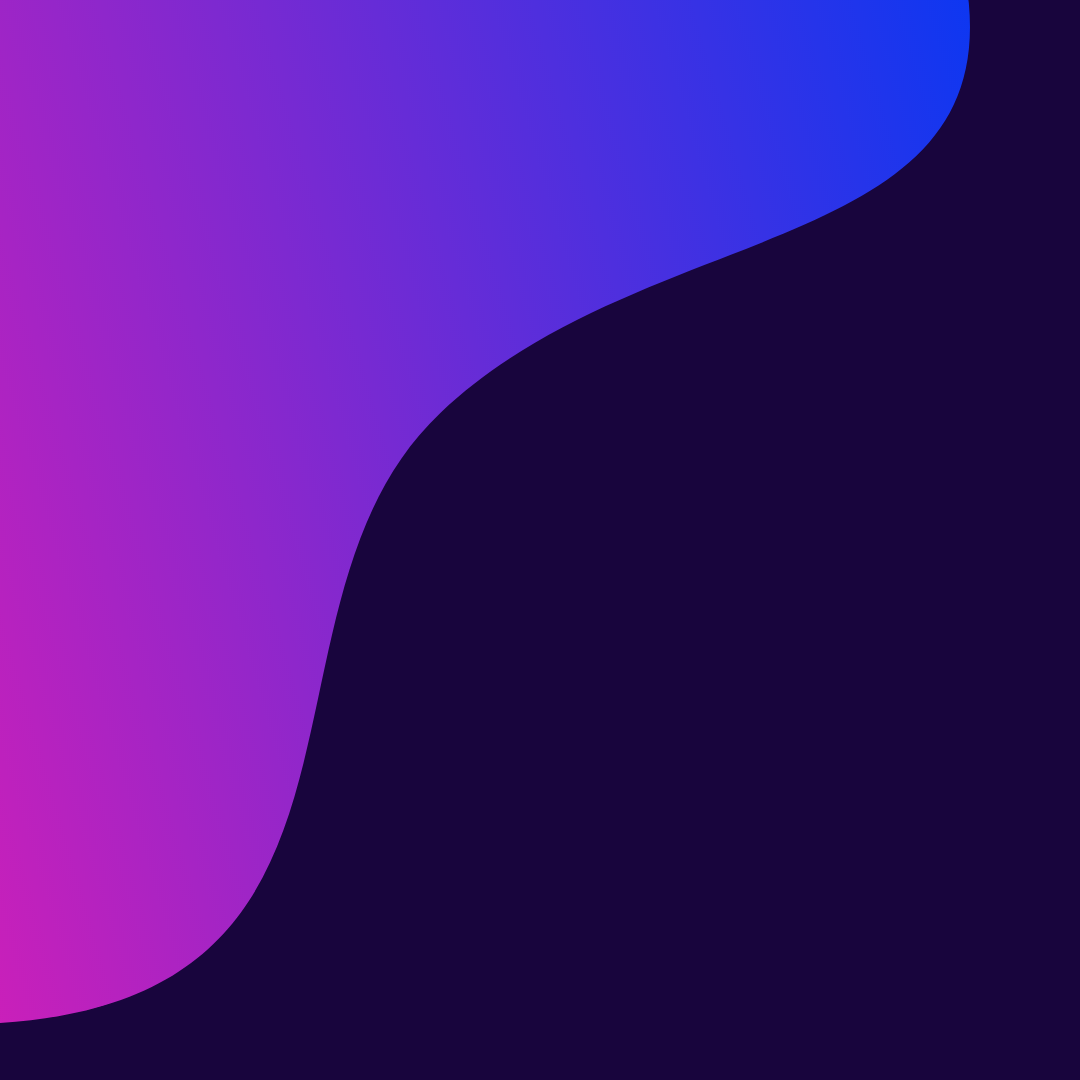
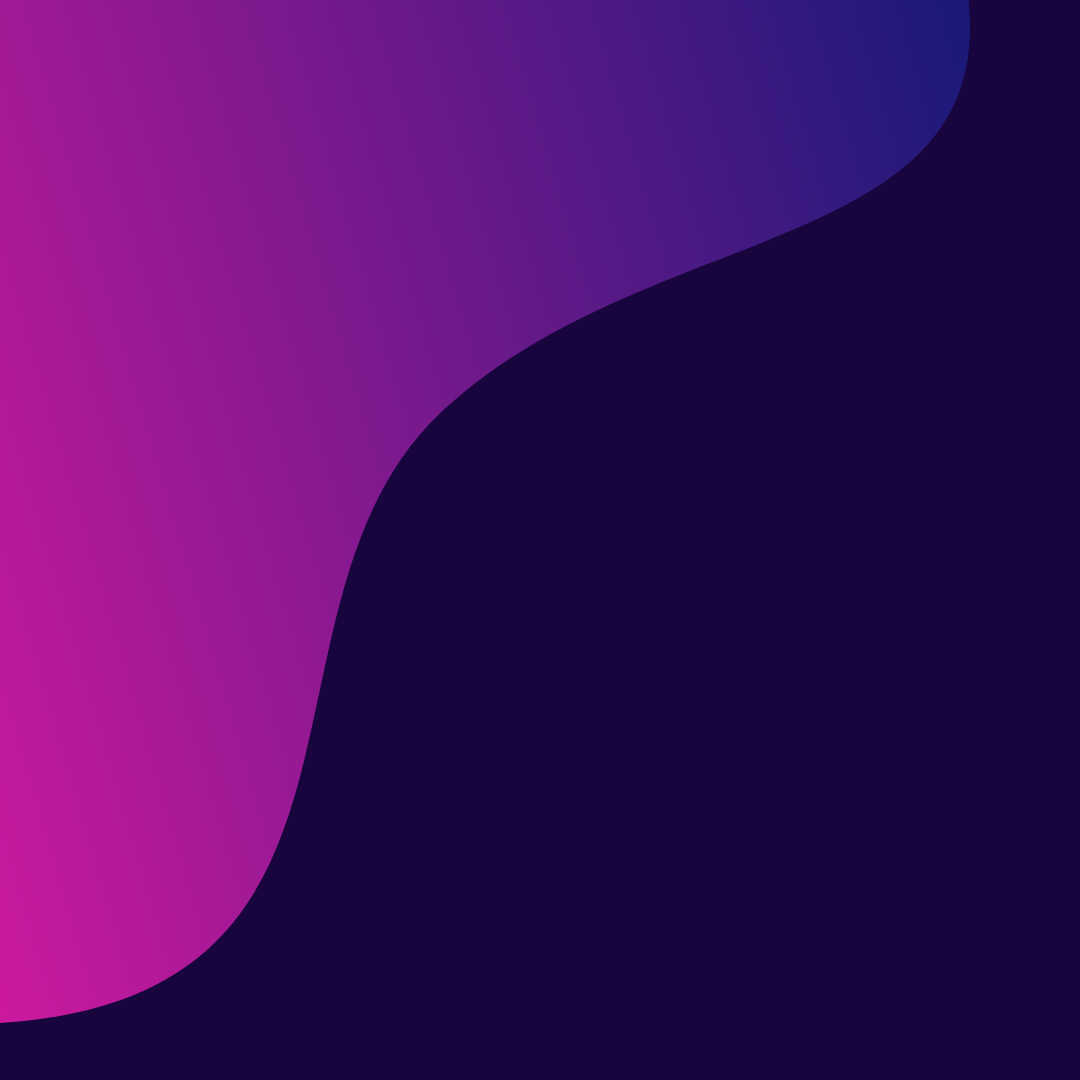
changed colour scheme

diff --git a/styles.css b/styles.css
@@ -3,6 +3,7 @@ body{
 	padding:1vw;
 	font-size:1.15rem;
 	line-height:1.5;
+	background-color:rgb(5,5,10);
 }
 
 header{
@@ -73,7 +74,7 @@ a{
 	color: white;
 	display:none;
 	flex-direction:row;
-	background-color:rgb(120,70,220);
+	background-color:rgb(25,25,120);
 	border: 3px solid black;
 	border-radius:10px;
 	padding: 1vh 0;
@@ -96,8 +97,13 @@ a{
 
 }
 
+#sticky-head .active{
+	color:white;
+}
+
 section{
-	background-color:rgb(252,244,255);
+	background-color:rgb(10,10,53);
+	color:white;
 	padding-bottom: 25px;
 	padding-right:15px;
 	padding-left:15px;
@@ -122,7 +128,6 @@ section{
 	justify-content:flex-start;
 	min-height:16vh;
 	font-weight:bold;
-	color:rgb(120,70,220);
 	font-variant:small-caps;
 }
 
@@ -159,7 +164,7 @@ footer{
 	color: white;
 	display:none;
 	flex-direction:column;
-	background-color:rgb(120,70,220);
+	background-color:rgb(25,25,120);
 	border: 3px solid black;
 	border-radius:10px;
 	padding: 2vh;
@@ -175,6 +180,11 @@ footer{
 	padding:2vh;
 	align-items:center;
 	justify-content:center;
+}
+
+.row.to-top a{
+	color:white;
+	text-shadow:0 0 10px blue;
 }
 
 .left{
@@ -193,13 +203,12 @@ footer{
 	display:flex;
 	width:47vw;
 	justify-content:flex-end;
-	
 	align-items:center;
 }
 
 .right a{
 	margin-right:2vw;
-	color:rgb(10,10,100);
+	color:rgb(120,70,220);
 	
 }
 

diff --git a/library.html b/library.html
@@ -14,15 +14,15 @@
 		<header>
 			<h1>scibuffet</h1>
 			<nav>
-				<div class='nav-link'><a href='./index.html'>Home</a></div>
+				<div class='nav-link'><a name='header' href='./index.html'>Home</a></div>
 				<div class='nav-link active'><a href='#'>Library</a></div>
 				<div class='nav-link'><a href='./about.html'>About</a></div>
 			</nav>
 		</header>
 		
 		<div id='sticky-head'>
-			<a href='#header' style="color:white"><i class="fas fa-2x fa-home"></i></a>
-			<a href='./library.html'><i class="fas fa-2x fa-book-open"></i></a>
+			<a href='./index.html'><i class="fas fa-2x fa-home"></i></a>
+			<a href='#' class='active'><i class="fas fa-2x fa-book-open"></i></a>
 			<a href='./about.html'><i class="fas fa-2x fa-question-circle"></i></a>
 		</div>
 		
@@ -103,8 +103,8 @@
 					<a name="mail" href='mailto:the.scibuffet@gmail.com' ><i class="far fa-3x fa-envelope"></i></a>
 				</div>
 			</div>
-			<div class='row'>
-				<a href='#header' style='text-shadow:none;'>Back to top</a>
+			<div class='row to-top'>
+				<a href='#header'>Back to top</a>
 			</div>
 		</footer>
 		

diff --git a/index.html b/index.html
@@ -14,13 +14,13 @@
 	<header>
 		<h1>scibuffet</h1>
 		<nav>
-			<div class='nav-link active'><a href='#'>Home</a></div>
+			<div class='nav-link active'><a name='header' href='#'>Home</a></div>
 			<div class='nav-link'><a href='./library.html'>Library</a></div>
 			<div class='nav-link'><a href='./about.html'>About</a></div>
 		</nav>
 	</header>
 	<div id='sticky-head'>
-		<a href='#header' style="color:white"><i class="fas fa-2x fa-home"></i></a>
+		<a href='#header' class='active'><i class="fas fa-2x fa-home"></i></a>
 		<a href='./library.html'><i class="fas fa-2x fa-book-open"></i></a>
 		<a href='./about.html'><i class="fas fa-2x fa-question-circle"></i></a>
 	</div>
@@ -103,8 +103,8 @@
 				<a name="mail" href='mailto:the.scibuffet@gmail.com' ><i class="far fa-3x fa-envelope"></i></a>
 			</div>
 		</div>
-		<div class='row'>
-			<a href='#header' style='text-shadow:none;'>Back to top</a>
+		<div class='row to-top'>
+			<a href='#header'>Back to top</a>
 		</div>
 	</footer>
 	<script src='./app.js'></script>

diff --git a/about.html b/about.html
@@ -21,16 +21,16 @@
 		</header>
 		
 		<div id='sticky-head'>
-			<a href='#header' style="color:white"><i class="fas fa-2x fa-home"></i></a>
+			<a href='./index.html'><i class="fas fa-2x fa-home"></i></a>
 			<a href='./library.html'><i class="fas fa-2x fa-book-open"></i></a>
-			<a href='./about.html'><i class="fas fa-2x fa-question-circle"></i></a>
+			<a href='#' class='active'><i class="fas fa-2x fa-question-circle"></i></a>
 		</div>
 		
 		<script src='./app.js'></script>
 		<script src="https://kit.fontawesome.com/a3a9954077.js" crossorigin="anonymous"></script>
 		<script>
 			manageLoad(homepage=false);
-			manageStickyHead();
+			manageStickyHead(1);
 		</script>
 	</body>
 </html>
